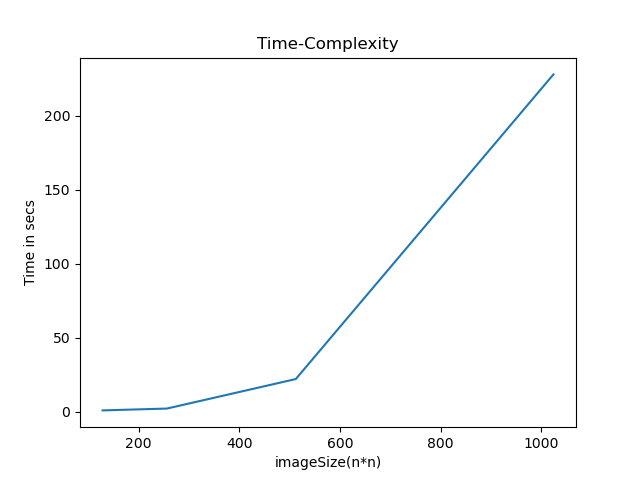
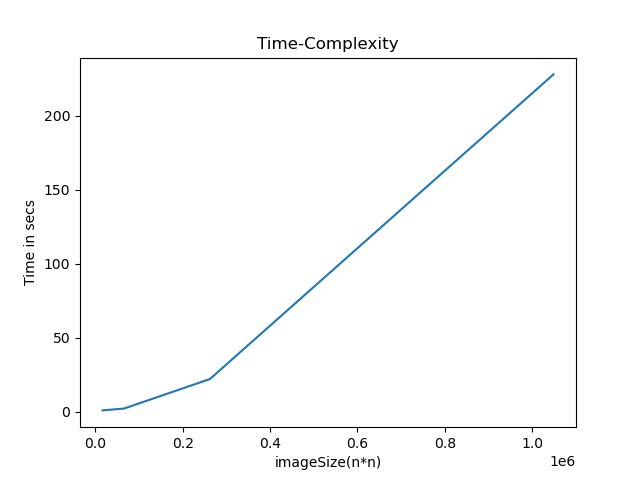
analysis fix

diff --git a/analyse/time-complexity.py b/analyse/time-complexity.py
@@ -3,6 +3,7 @@ import matplotlib.pyplot as plt
 import numpy as np
 
 imgSize = [128,256,512,1024]
+pixels = [number ** 2 for number in imgSize]
 t1 = np.array([0.75,1.895,22.13,283.056])
 t2 = np.array([0.79,1.994,25.386,398.365])
 t3 = np.array([0.75,2.156,18.336,2.156])
@@ -12,7 +13,7 @@ t = np.add(t,t3)
 t = t/3
   
 # plotting the points 
-plt.plot(imgSize, t)
+plt.plot(pixels, t)
 plt.xlabel('imageSize(n*n)')
 plt.ylabel('Time in secs')
 plt.title('Time-Complexity')
